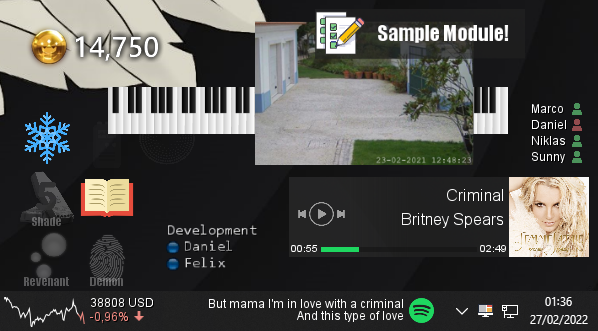
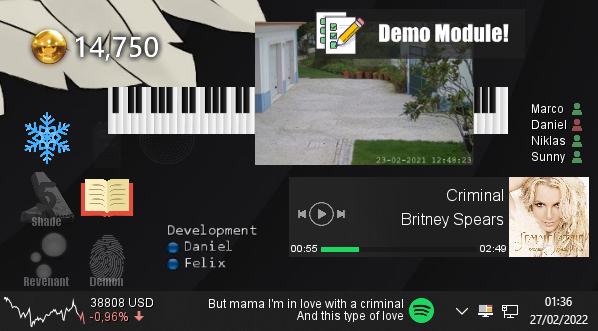
change name of demo addon

Changed region(s): [[0.6321, 0.0604, 0.8729, 0.1511]]

diff --git a/src/demo/java/de/labystudio/desktopmodules/demo/modules/DemoModule.java b/src/demo/java/de/labystudio/desktopmodules/demo/modules/DemoModule.java
@@ -1,4 +1,4 @@
-package de.labystudio.desktopmodules.sample.modules;
+package de.labystudio.desktopmodules.demo.modules;
 
 import com.google.gson.JsonObject;
 import de.labystudio.desktopmodules.core.loader.TextureLoader;
@@ -6,25 +6,24 @@ import de.labystudio.desktopmodules.core.module.Module;
 import de.labystudio.desktopmodules.core.renderer.IRenderContext;
 import de.labystudio.desktopmodules.core.renderer.font.Font;
 import de.labystudio.desktopmodules.core.renderer.font.FontStyle;
-import de.labystudio.desktopmodules.core.renderer.font.StringAlignment;
 import de.labystudio.desktopmodules.core.renderer.font.StringEffect;
-import de.labystudio.desktopmodules.sample.SampleAddon;
+import de.labystudio.desktopmodules.demo.DemoAddon;
 
 import java.awt.*;
 import java.awt.image.BufferedImage;
 
-public class SampleModule extends Module<SampleAddon> {
+public class DemoModule extends Module<DemoAddon> {
 
-    private static final Font SAMPLE_FONT = new Font("Impact", FontStyle.PLAIN, 24);
+    private static final Font DEMO_FONT = new Font("Impact", FontStyle.PLAIN, 24);
 
-    private BufferedImage sampleTexture;
+    private BufferedImage demoTexture;
 
-    public SampleModule() {
+    public DemoModule() {
         super(250, 60);
     }
 
     @Override
-    public void onInitialize(SampleAddon addon, JsonObject config) {
+    public void onInitialize(DemoAddon addon, JsonObject config) {
         super.onInitialize(addon, config);
 
         System.out.println("Module of " + this.addon.getDisplayName() + " initialized");
@@ -32,17 +31,17 @@ public class SampleModule extends Module<SampleAddon> {
 
     @Override
     public void loadTextures(TextureLoader textureLoader) {
-        this.sampleTexture = textureLoader.load("textures/sample/sample.png");
+        this.demoTexture = textureLoader.load("textures/demo/demo.png");
     }
 
     @Override
     protected String getIconPath() {
-        return "textures/sample/sample.png";
+        return "textures/demo/demo.png";
     }
 
     @Override
     public String getDisplayName() {
-        return "Sample Module";
+        return "Demo Module";
     }
 
     @Override
@@ -53,7 +52,7 @@ public class SampleModule extends Module<SampleAddon> {
     @Override
     public void onRender(IRenderContext context, int width, int height) {
         context.drawRect(0, 0, width - 1, height - 1, new Color(50, 50, 50, 130));
-        context.drawString("Sample Module!", width, height + 20, 38, this.rightBound, StringEffect.NONE, Color.WHITE, SAMPLE_FONT);
-        context.drawImage(this.sampleTexture, this.rightBound ? width - height : 0, 0, height, height);
+        context.drawString("Demo Module!", width, height + 20, 38, this.rightBound, StringEffect.NONE, Color.WHITE, DEMO_FONT);
+        context.drawImage(this.demoTexture, this.rightBound ? width - height : 0, 0, height, height);
     }
 }

diff --git a/src/demo/java/de/labystudio/desktopmodules/demo/DemoAddon.java b/src/demo/java/de/labystudio/desktopmodules/demo/DemoAddon.java
@@ -1,9 +1,9 @@
-package de.labystudio.desktopmodules.sample;
+package de.labystudio.desktopmodules.demo;
 
 import de.labystudio.desktopmodules.core.addon.Addon;
-import de.labystudio.desktopmodules.sample.modules.SampleModule;
+import de.labystudio.desktopmodules.demo.modules.DemoModule;
 
-public class SampleAddon extends Addon {
+public class DemoAddon extends Addon {
 
     @Override
     public void onInitialize() throws Exception {
@@ -18,16 +18,16 @@ public class SampleAddon extends Addon {
         String startupMessage = getConfigValue(this.config, "startup_message", "Hello World!");
         System.out.println(startupMessage);
 
-        registerModule(SampleModule.class);
+        this.registerModule(DemoModule.class);
     }
 
     @Override
     public void onEnable() throws Exception {
-        System.out.println("Sample addon enabled!");
+        System.out.println("Demo addon enabled!");
     }
 
     @Override
     public void onDisable() {
-        System.out.println("Sample addon disabled!");
+        System.out.println("Demo addon disabled!");
     }
 }

diff --git a/src/core/java/de/labystudio/desktopmodules/core/loader/SourceLoader.java b/src/core/java/de/labystudio/desktopmodules/core/loader/SourceLoader.java
@@ -6,7 +6,7 @@ import de.labystudio.desktopmodules.core.DesktopModules;
 import de.labystudio.desktopmodules.core.addon.Addon;
 import de.labystudio.desktopmodules.core.loader.model.ModelAddonData;
 import de.labystudio.desktopmodules.core.module.Module;
-import de.labystudio.desktopmodules.sample.SampleAddon;
+import de.labystudio.desktopmodules.demo.DemoAddon;
 
 import java.io.File;
 import java.io.IOException;
@@ -78,10 +78,10 @@ public class SourceLoader {
             }
         }
 
-        // Load sample module if no addons are available
+        // Load demo module if no addons are available
         if (!addonsFound) {
             try {
-                registerAddon(SampleAddon.class.getName());
+                registerAddon(DemoAddon.class.getName());
             } catch (Exception exception) {
                 exception.printStackTrace();
             }
